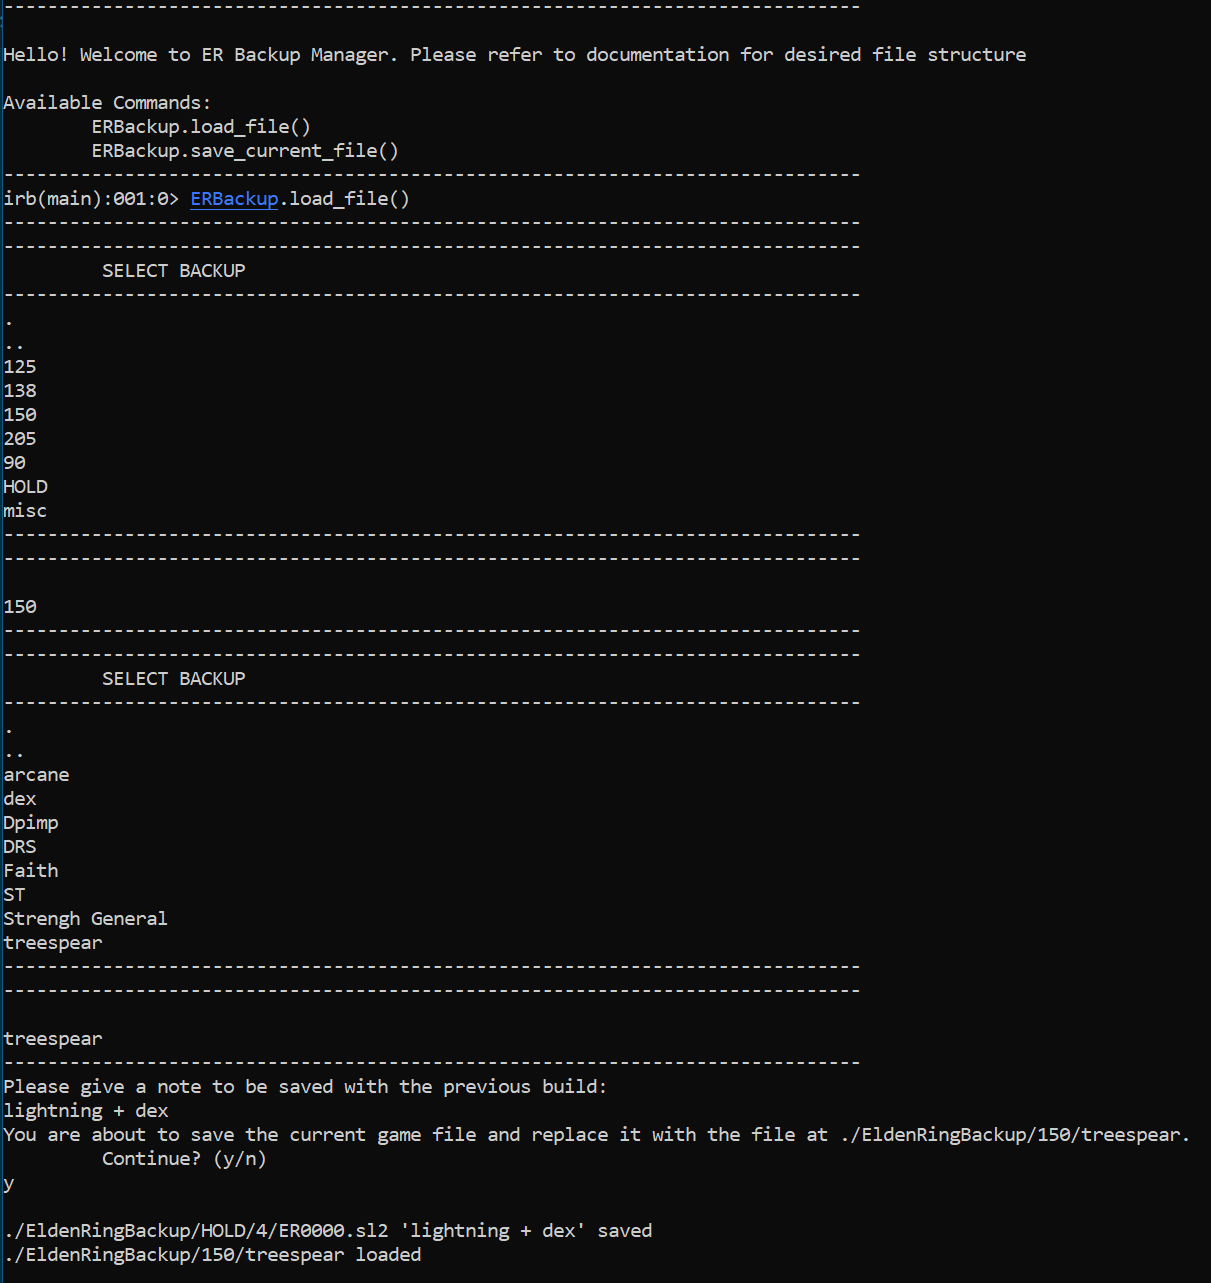
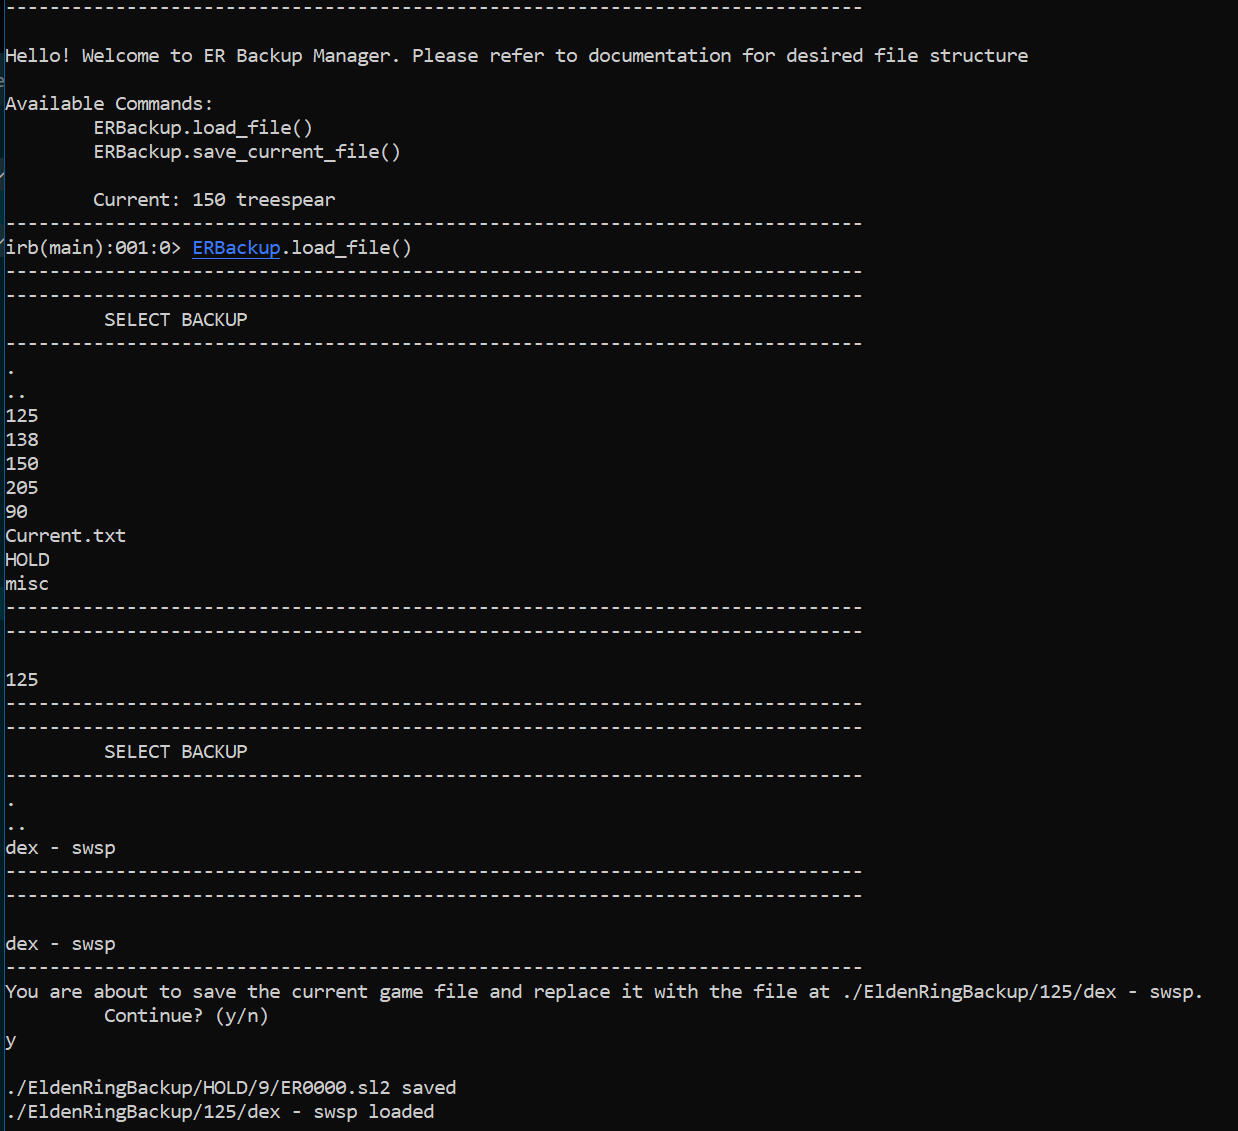
remove note, add current file, edit sample

diff --git a/index.rb b/index.rb
@@ -10,7 +10,7 @@ class ERBackup
   @@hold_folder = './EldenRingBackup/HOLD'
   @@game_folder = './76561199248410024'
 
-  def self.backup_current_file(build_note)
+  def self.backup_current_file
     #take current file and store it in hold for now
     #create new subfolder in hold folder so no overwrites happen
     #find better way to send backup to a location
@@ -21,12 +21,10 @@ class ERBackup
     
     FileUtils.mkdir("#{@@hold_folder}/#{last+1}")
     FileUtils.touch("#{@@hold_folder}/#{last+1}/#{@@game_file_name}")
-    FileUtils.touch("#{@@hold_folder}/#{last+1}/build_note.txt")
 
-    File.open("#{@@hold_folder}/#{last+1}/build_note.txt", 'w') { |file| file.write(build_note) }
     FileUtils.copy_file("#{@@game_folder}/#{@@game_file_name}", "#{@@hold_folder}/#{last+1}/#{@@game_file_name}")
 
-    puts "#{@@hold_folder}/#{last+1}/#{@@game_file_name} '#{build_note}' saved"
+    puts "#{@@hold_folder}/#{last+1}/#{@@game_file_name} saved"
   end
 
 
@@ -65,15 +63,14 @@ class ERBackup
 
           if Array(options2).include? input2
             puts $line
-            puts 'Please give a note to be saved with the previous build:'
-            build_note = gets.chomp
             puts "You are about to save the current game file and replace it with the file at #{full_path}. \n\t Continue? (y/n)"
             input3 = gets.chomp
             case input3
             when 'y'
               puts "\n"
-              ERBackup.backup_current_file(build_note)
+              ERBackup.backup_current_file()
               FileUtils.copy_file("#{@@backup_folder}/#{input1}/#{input2}/#{@@game_file_name}", "#{@@game_folder}/#{@@game_file_name}")
+              File.open("#{@@backup_folder}/Current.txt", 'w') { |file| file.write("#{input1} #{input2}") }
               puts "#{full_path} loaded"
               puts "\n"
             else
@@ -98,7 +95,11 @@ class ERBackup
   end
 end
 
+current_game = file_data = File.read("./EldenRingBackup/Current.txt").split.join(" ")
+
 puts $line
 puts "\nHello! Welcome to ER Backup Manager. Please refer to documentation for desired file structure"
 puts "\nAvailable Commands: \n\tERBackup.load_file() \n\tERBackup.save_current_file()\n"
+
+puts "\n\tCurrent: #{current_game}"
 puts $line
